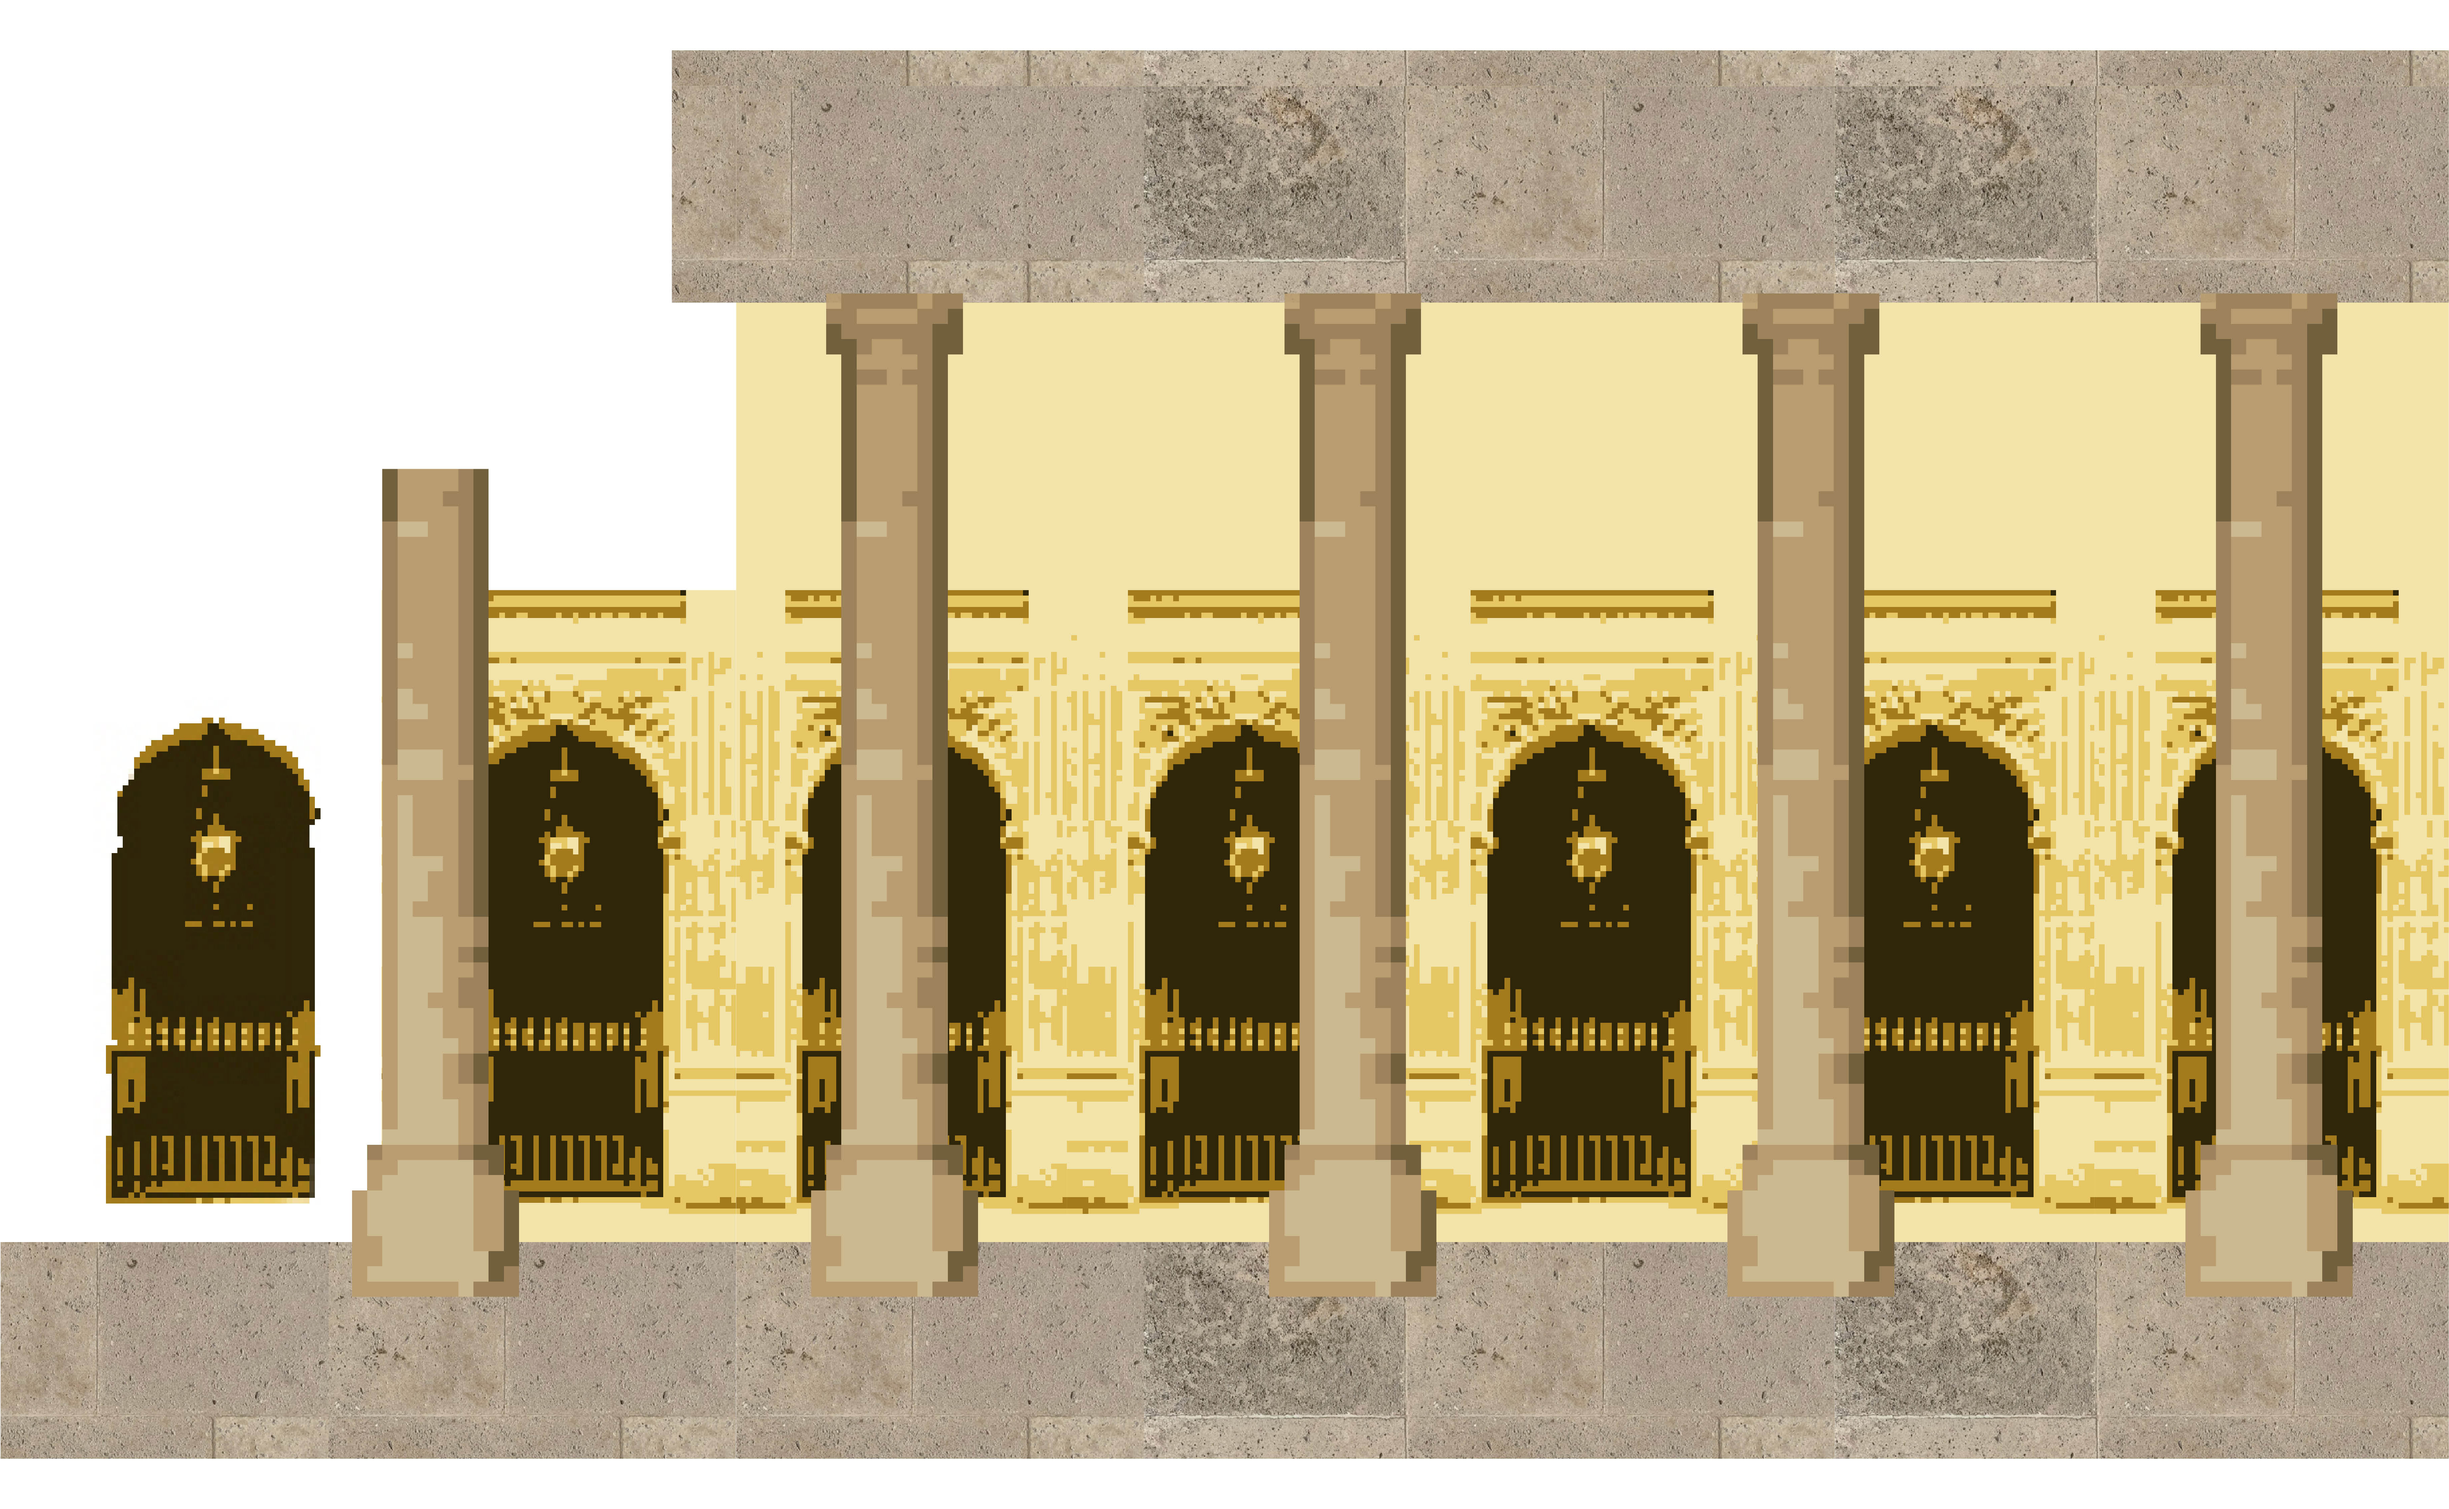
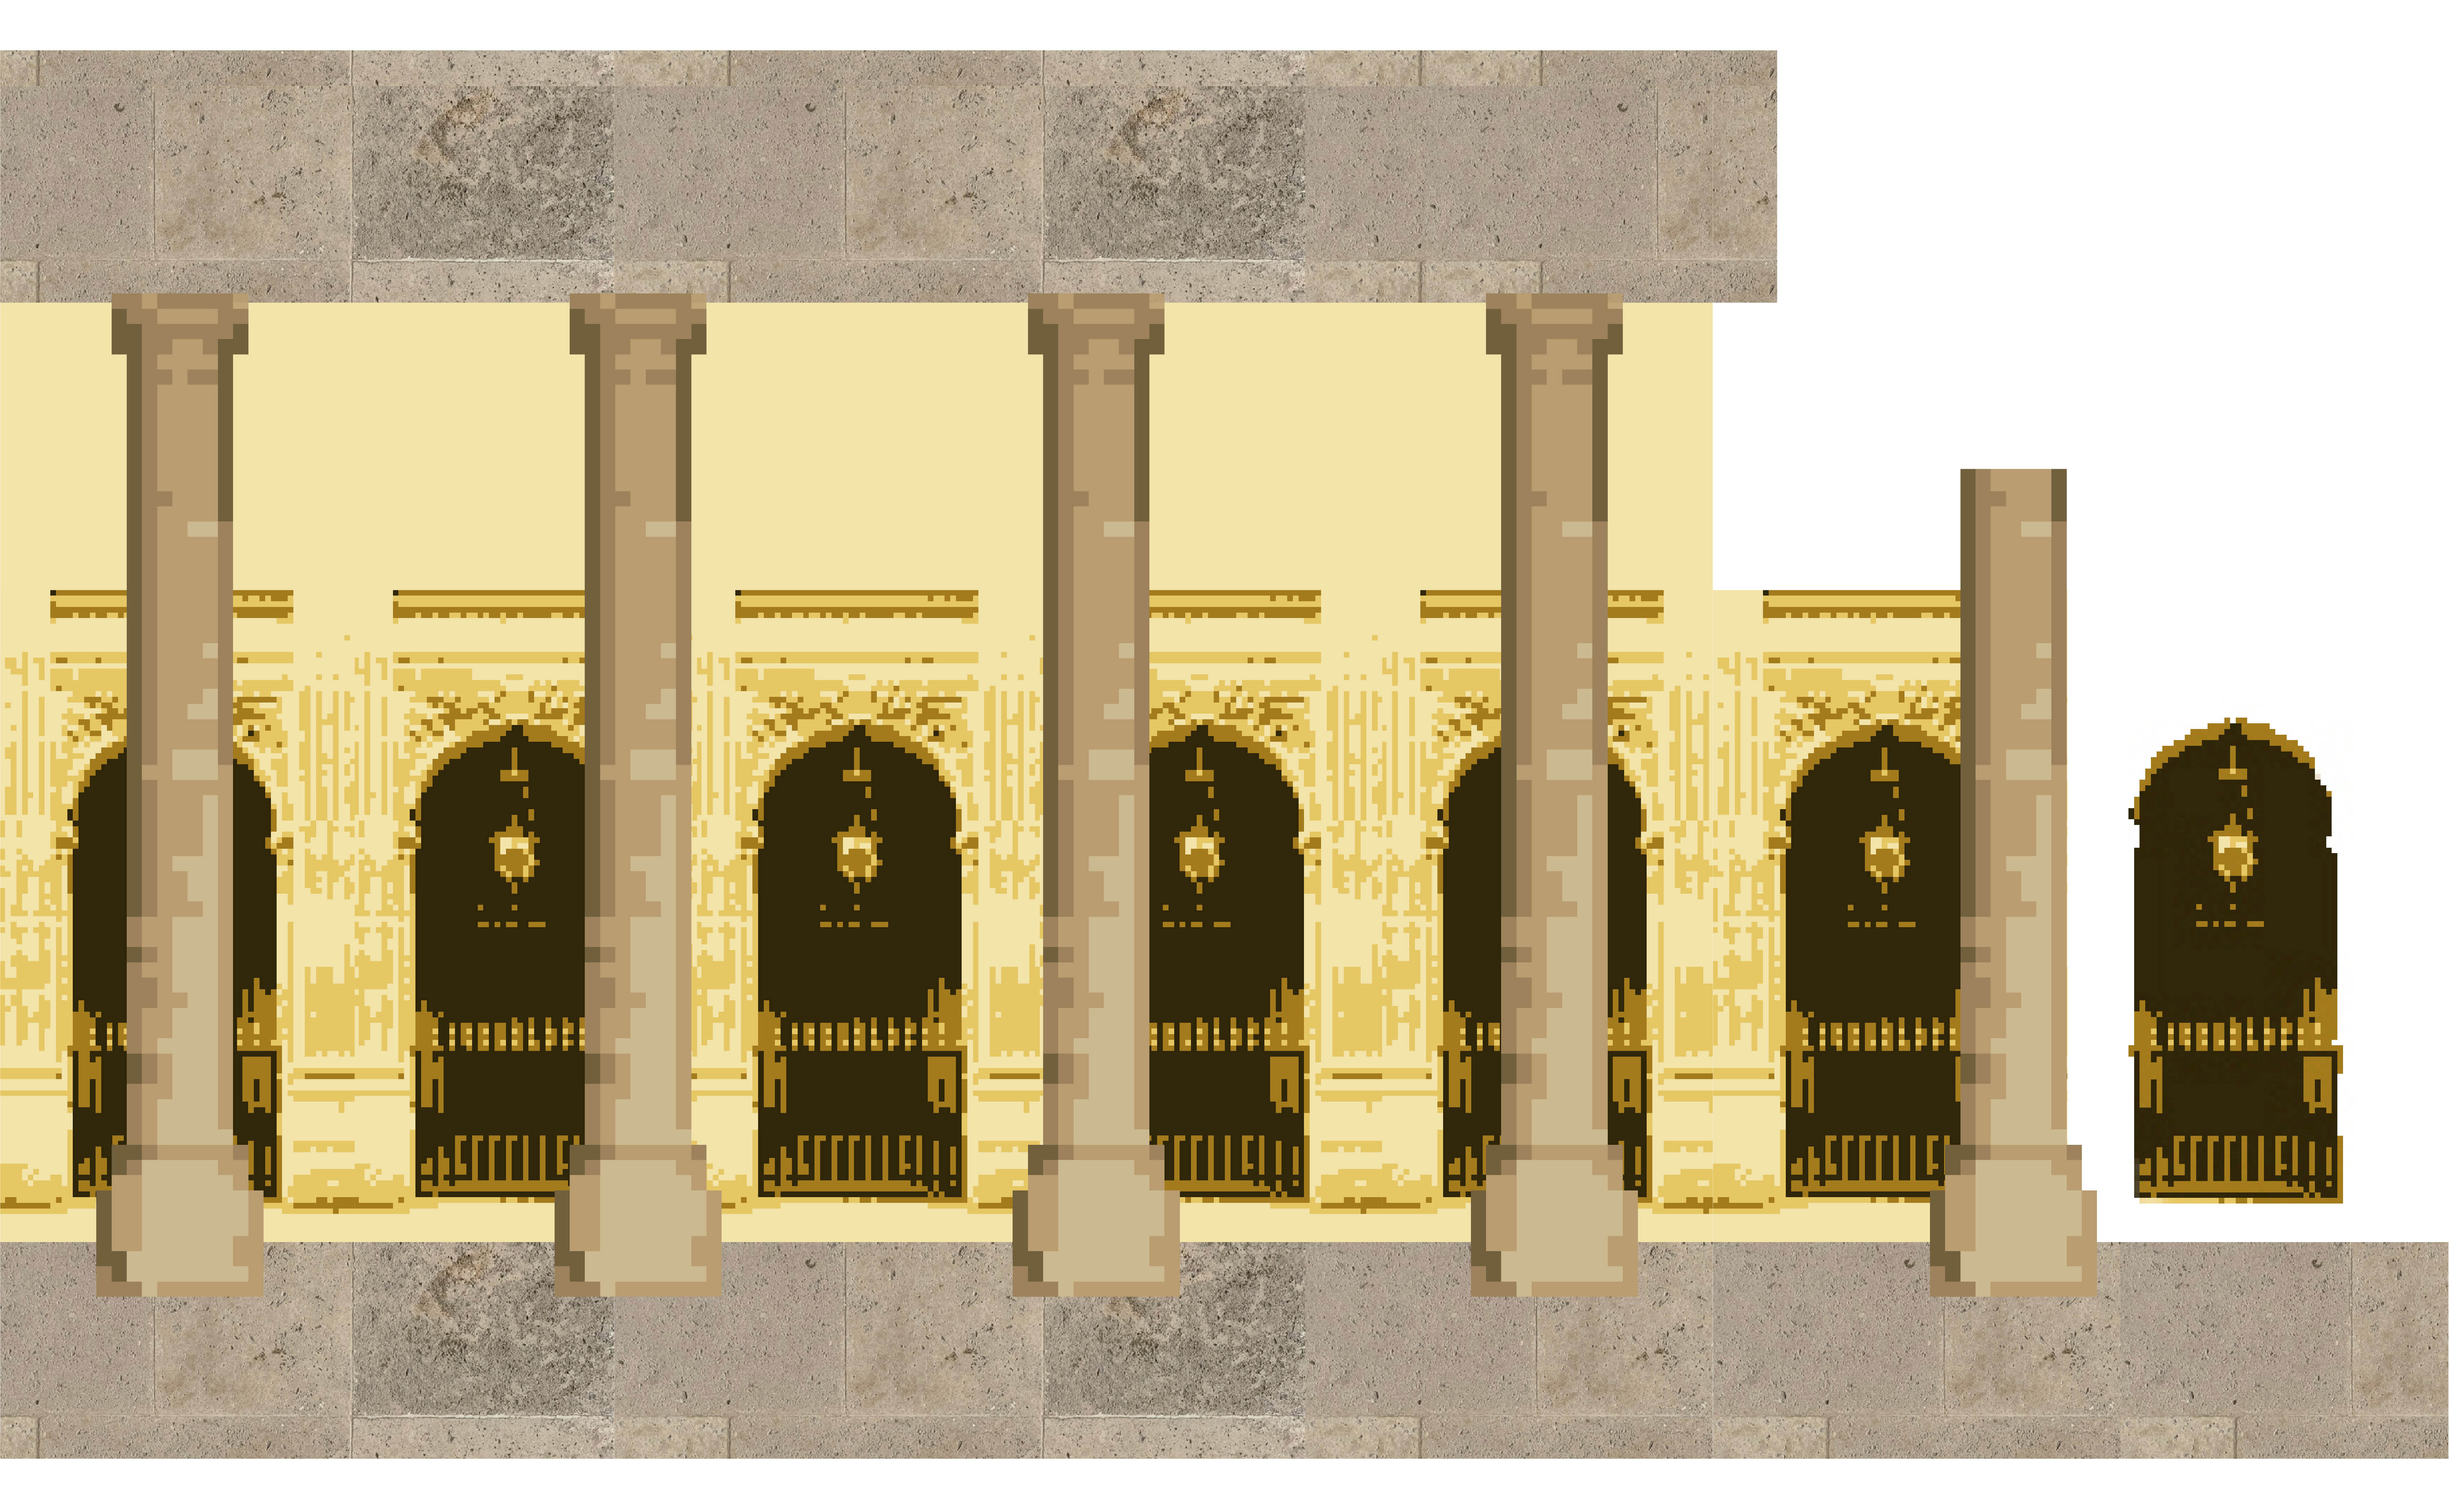
paris projektseite

diff --git a/css/style.css b/css/style.css
@@ -263,19 +263,22 @@ input:focus {
     "neurophoto4 neurophoto4 neurophoto4 neurophoto4 neurophoto4 neurophoto4"
     "neurophoto5 neurophoto5 neurophoto5 neurophoto5 neurophoto5 neurophoto5"
 
+    "paris6 paris6 paris6 paris6 paris6 paris6"
     ". paris4 paris4 paris4 paris4 ."
     ". paris2 paris2 paris2 paris2 ."
-    ". paris3 paris3 paris3 paris3 ."
-    ". paris5 paris5 paris5 paris5 ."
+    ". paris10 paris10 paris10 paris10 ."
+    /* ". paris3 paris3 paris3 paris3 ." */
+    /* ". paris5 paris5 paris5 paris5 ." */
     "paris4h paris4h paris4h paris4h paris4h paris4h"
     "paris2h paris2h paris2h paris2h paris2h paris2h"
-    "paris3h paris3h paris3h paris3h paris3h paris3h"
-    "paris5h paris5h paris5h paris5h paris5h paris5h"
+    "paris10h paris10h paris10h paris10h paris10h paris10h"
+    /* "paris3h paris3h paris3h paris3h paris3h paris3h" */
+    /* "paris5h paris5h paris5h paris5h paris5h paris5h" */
     "paris8 paris8 paris8 paris8 paris8 paris8"
-    "paris6 paris6 paris6 paris6 paris6 paris6"
+    "paris9 paris9 paris9 paris9 paris9 paris9"
     ". paris7 paris7 paris7 paris7 ."
     "paris7h paris7h paris7h paris7h paris7h paris7h"
-    "paris1 paris1 paris1 paris1 paris1 paris1"
+    /* "paris1 paris1 paris1 paris1 paris1 paris1" */
     
     ". neuroend neuroend neurovideo neurovideo ."
     "neuroend2 neuroend2 neuroend2 neuroend2 neuroend2 neuroend2"
@@ -473,15 +476,24 @@ input:focus {
 
 /* PARIS PROJEKTSEITE */
 
-.paris_01 {
+/* .paris_01 {
     grid-area: paris1;
-}
+} */
 .paris_06 {
     grid-area: paris6;
-    padding: 0 0 0 40px;
+    padding: 0 40px 0 0;
 }
 .paris_08 {
     grid-area: paris8;
+}
+.paris_09 {
+    grid-area: paris9;
+}
+.paris_10 {
+    grid-area: paris10;
+}
+.paris_10_h {
+    grid-area: paris10h;
 }
 .paris_07 {
     grid-area: paris7;

diff --git a/paris.html b/paris.html
@@ -37,14 +37,17 @@
         <img class="paris_07 computer" src="bilder/paris_07.jpg">
         <img class="paris_07_h handy" src="bilder/paris_07.jpg">
         <img class="paris_08 multi" src="bilder/paris_08.jpg">
+        <img class="paris_09 multi" src="bilder/paris_09.jpg">
         <img class="paris_02 computer" src="bilder/paris_02.jpg">
-        <img class="paris_03 computer" src="bilder/paris_03.jpg">
+        <img class="paris_10 computer" src="bilder/paris_10.jpg">
+        <!-- <img class="paris_03 computer" src="bilder/paris_03.jpg"> -->
         <img class="paris_04 computer" src="bilder/paris_04.jpg">
         <img class="paris_02_h handy" src="bilder/paris_02.jpg">
-        <img class="paris_03_h handy" src="bilder/paris_03.jpg">
+        <img class="paris_10_h handy" src="bilder/paris_10.jpg">
+        <!-- <img class="paris_03_h handy" src="bilder/paris_03.jpg"> -->
         <img class="paris_04_h handy" src="bilder/paris_04.jpg">
-        <img class="paris_05_h multi" src="bilder/paris_05.jpg">
-        <img class="paris_01 multi" src="bilder/paris_01.jpg">
+        <!-- <img class="paris_05_h multi" src="bilder/paris_05.jpg"> -->
+        <!-- <img class="paris_01 multi" src="bilder/paris_01.jpg"> -->
     </div>
 </body>
 
